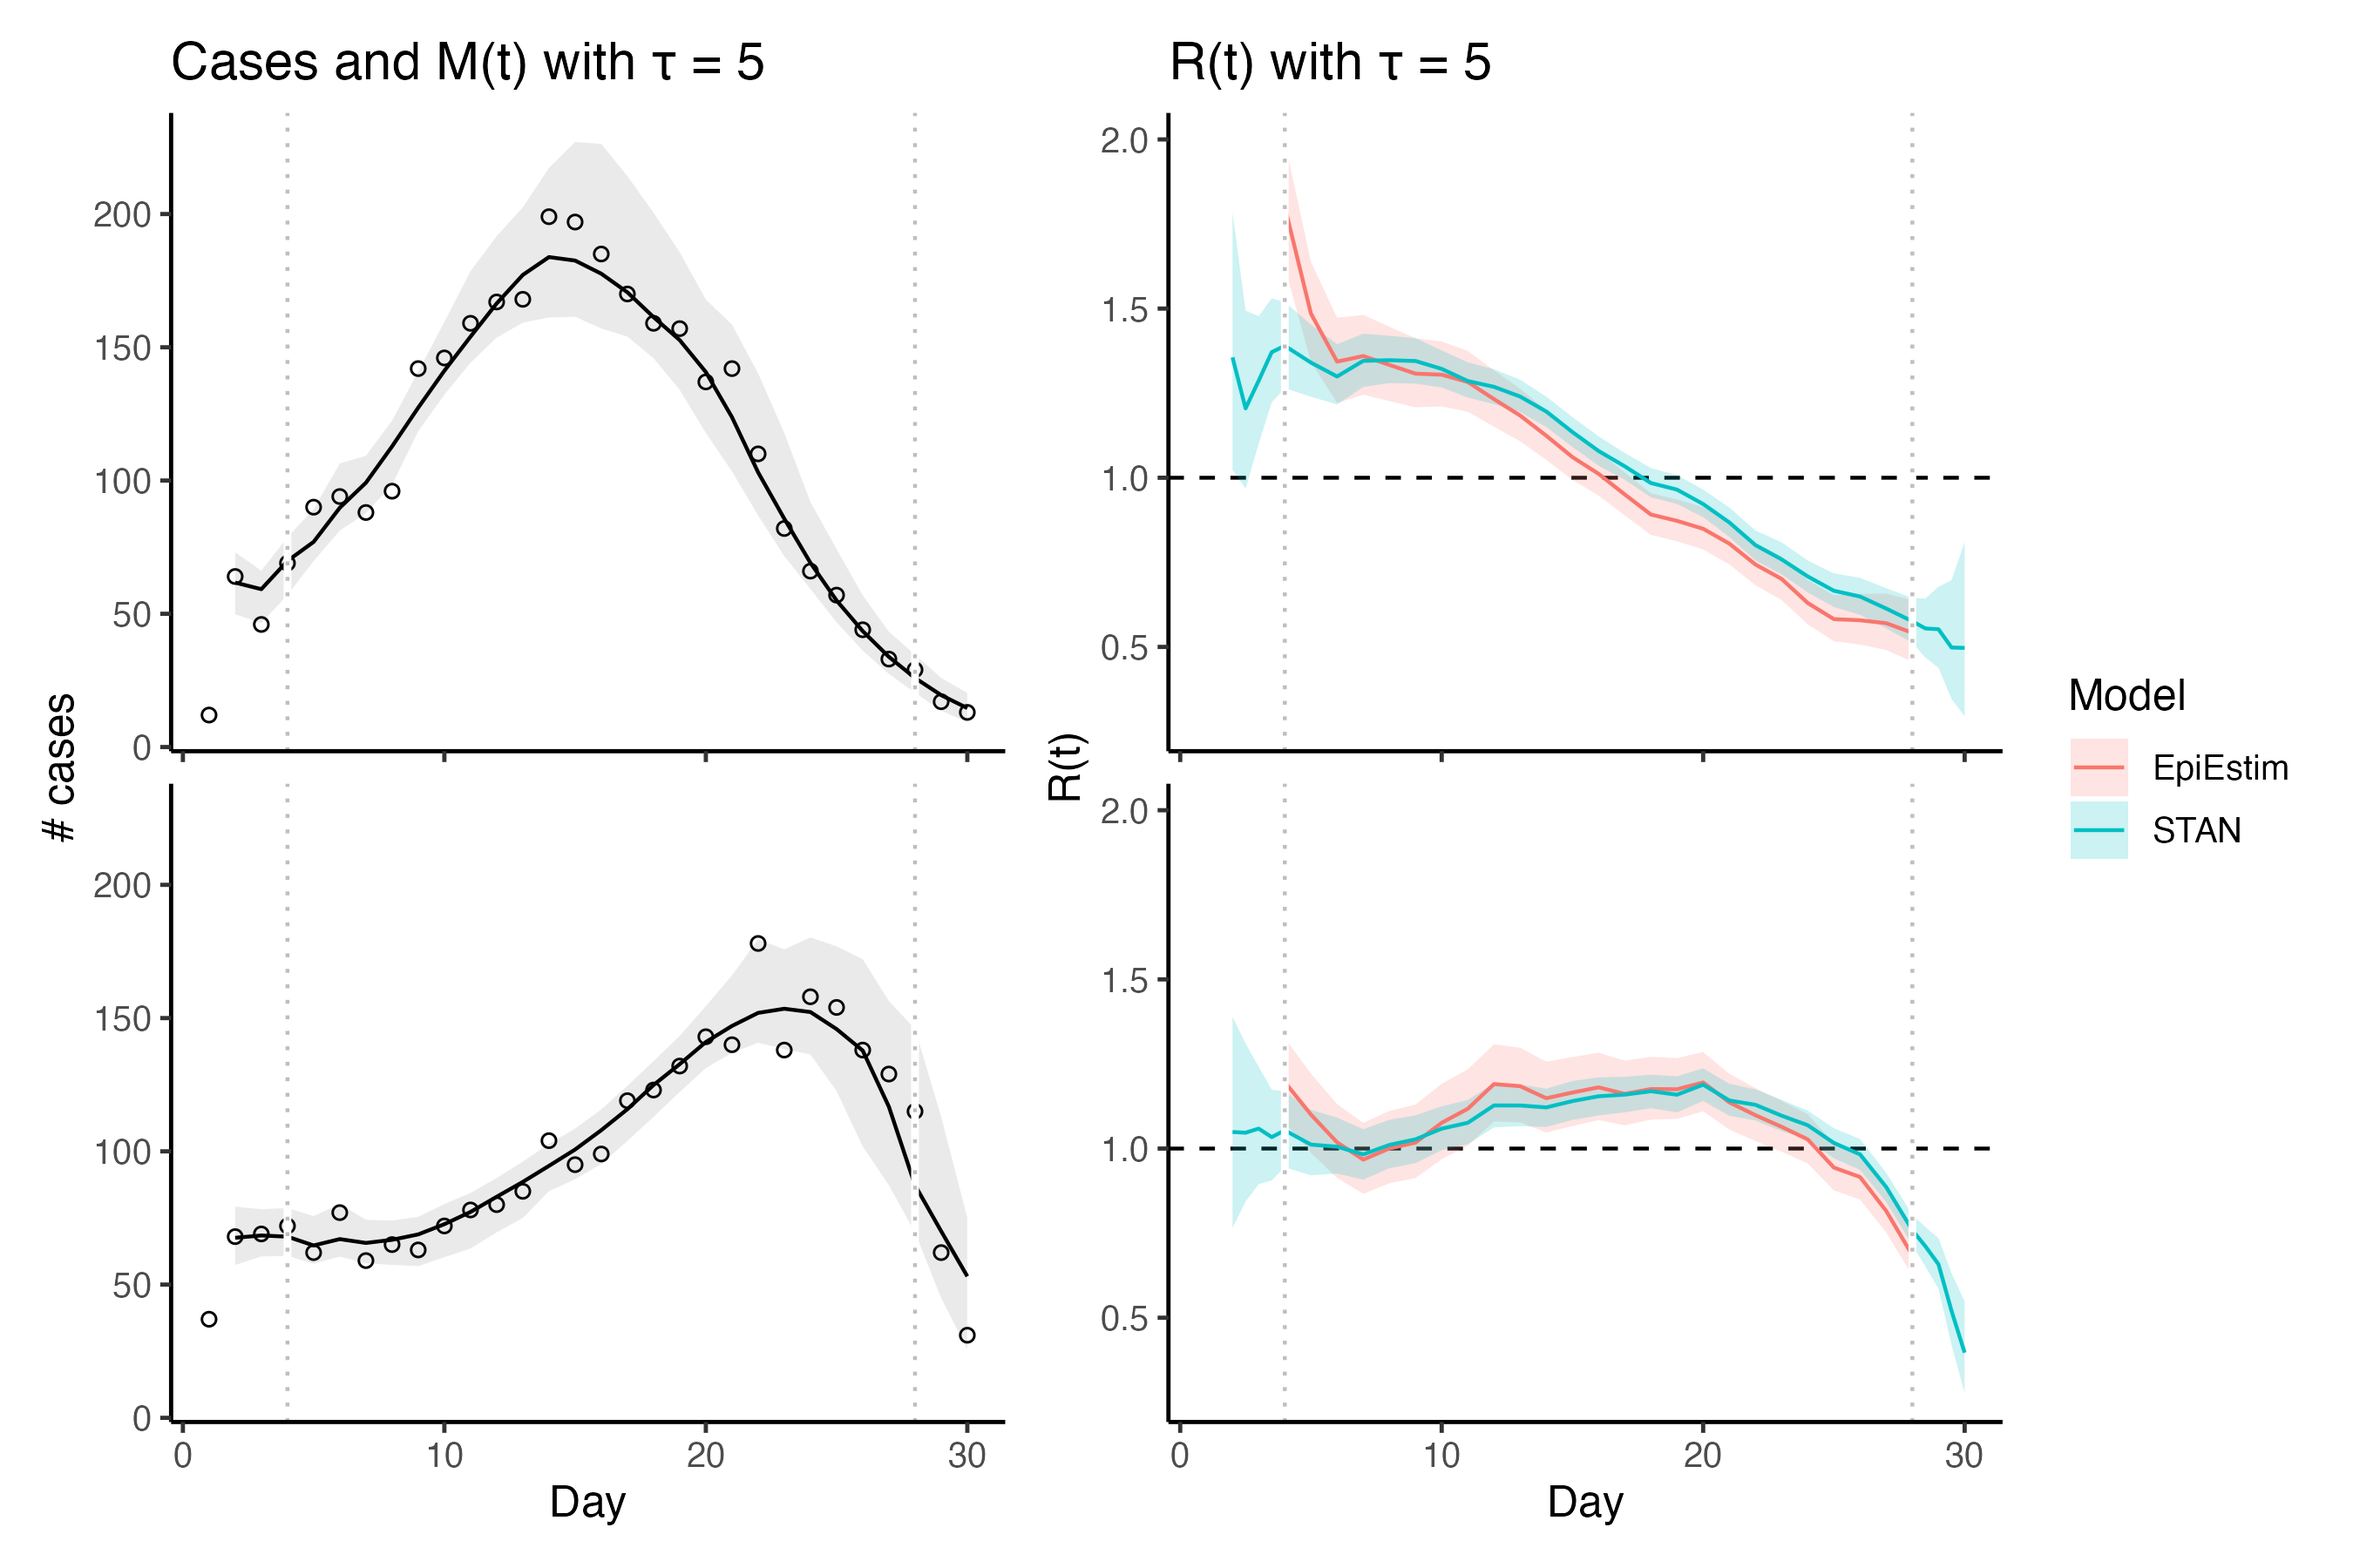
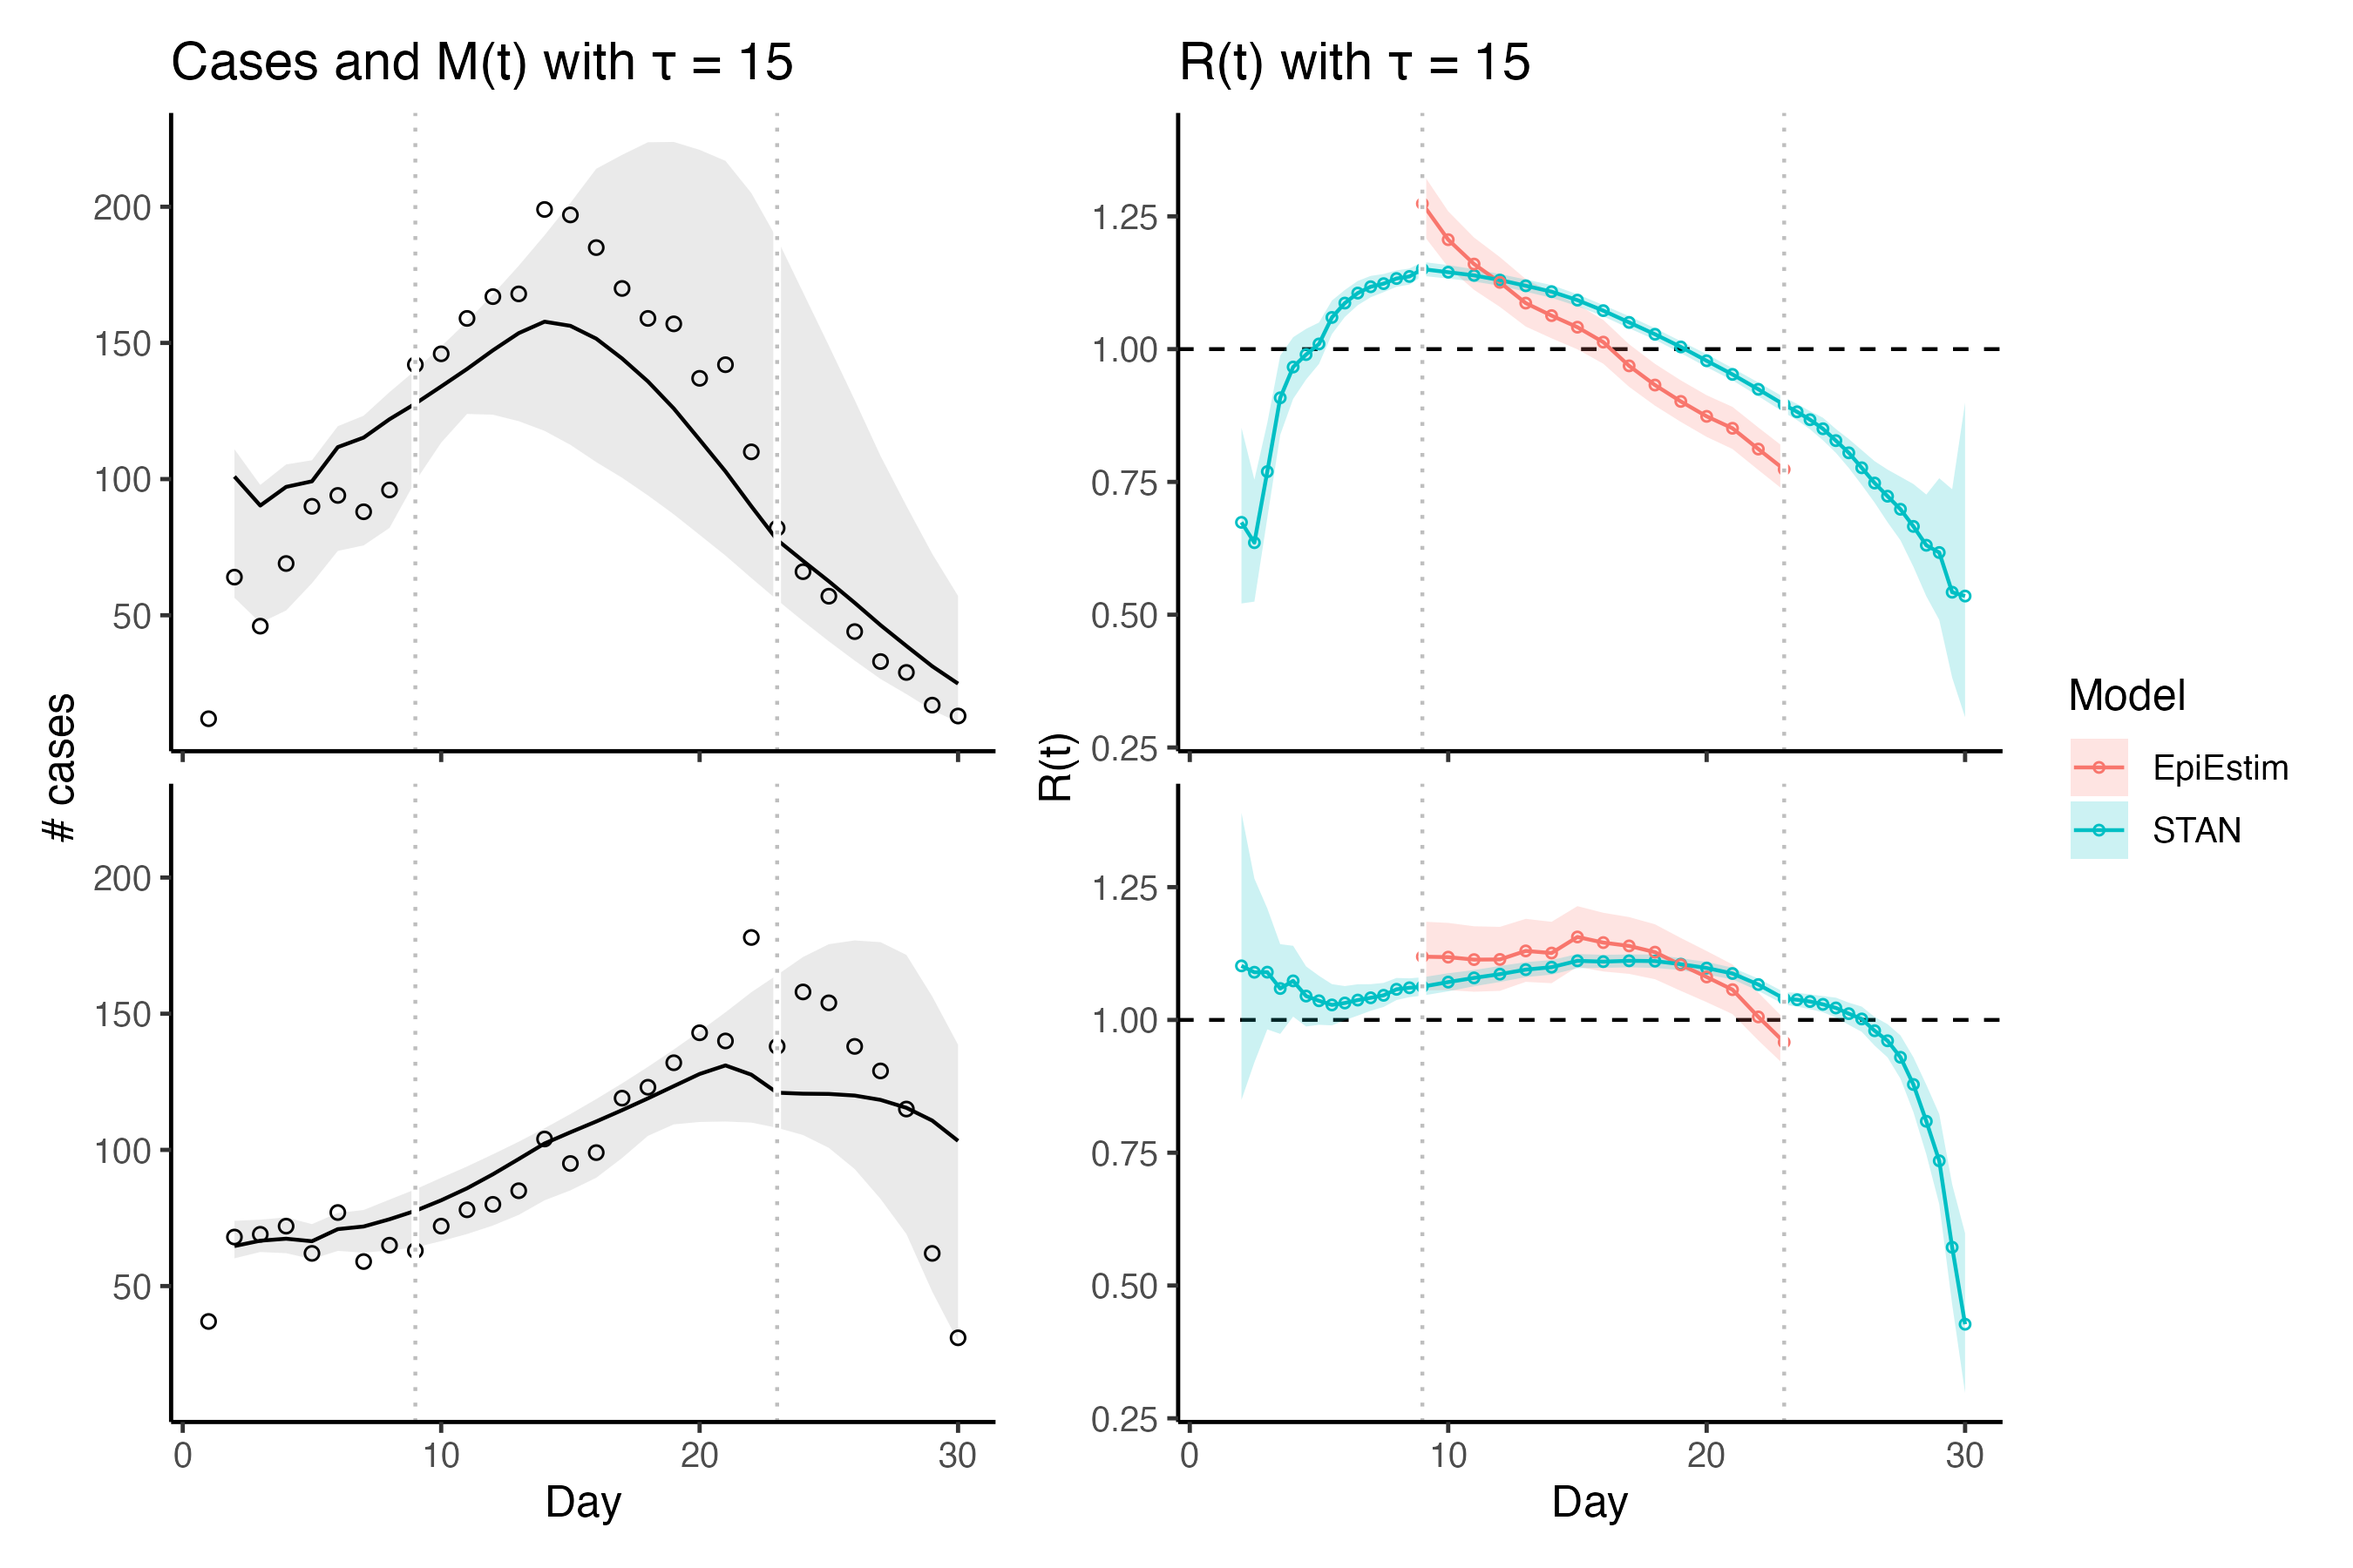
Updates

diff --git a/Readme.md b/Readme.md
@@ -8,9 +8,10 @@ Latest run file:
 Doing it this way means you can get a posterior distribution for M(t)!
 
 ### Differences:
-* the window approach. Originally Zhenwei was doing M windows, but we did R windows
+* the window approach. Originally Zhenwei was doing M windows, but we did R windows. This actually changes things a lot. which is the correct interpretation? Even with Tau = 5, you can get some spikiness because windowed R is constrained by groups of M(t) that are likely to result in the Y(t). Rather than how Zhenwei wrote it, sequences of M(t) will result in similar Y[n], which then influences daily estimates of R(t). The problem was though that if STAN had the option to fit a daily R[n] it was always fit to the day.
+* Another difference is that Zhenwei ran and averaged results over many simulations (right?), whereas this code is from one simulation. 
 * is R calculated before or after transfer? changes interpretation
-* runs quickly
+* runs quickly (3000 iterations, no chain depth) and converges. even for the simulated data it only takes 6hrs on the SCC. I think its because if R has dimension [n] it will Always pick the one that maximzes, so it will always be curve fitting in that case. 
 * sigma actually is a function of data now!
 * the warmup / cooldown sliding windows
 * back imputation: Right now the way this is fixed is just imputing what the M[0] value was. I tried implementing the exponential growth model from EpiEstim for back-calculation but it didn't quite work. I think its because its being applied in the serial interval part of the calculation. I think w would have to come into play but imputing the original value seems to work well enough
@@ -20,12 +21,13 @@ Doing it this way means you can get a posterior distribution for M(t)!
 
 ### next steps
 * re-create Zhenwei paper figure 1
-  * seems like this runs in about 1 day
+  * seems like this runs in about 6 hours!
 * incorporate a reporting delay distribution
 * make it software? Excel Julia AWS?
 * [Convert stan to Julia](https://discourse.julialang.org/t/implementation-of-nuts-translating-stan-model-to-julia-juliaconnector/74143)
-* Oo what about an API? 
-* this would also make it easy to test
+* Oo what about an API? -- and basically we could roll out a dashboard for each use case depending on what people send in. but each person could then customize
+* this would also make it easy to test -- right also if XYZ package doesn't need a paper, why do we?
+* What's best for InsightNEt? for BU SPH? for CWM? Right if our task is to make a tool, why would we write a paper? who cares how it performs?
 * write a different paper talking about this method?
 * use this to solve one of KGs issues related to downscaling?
 
